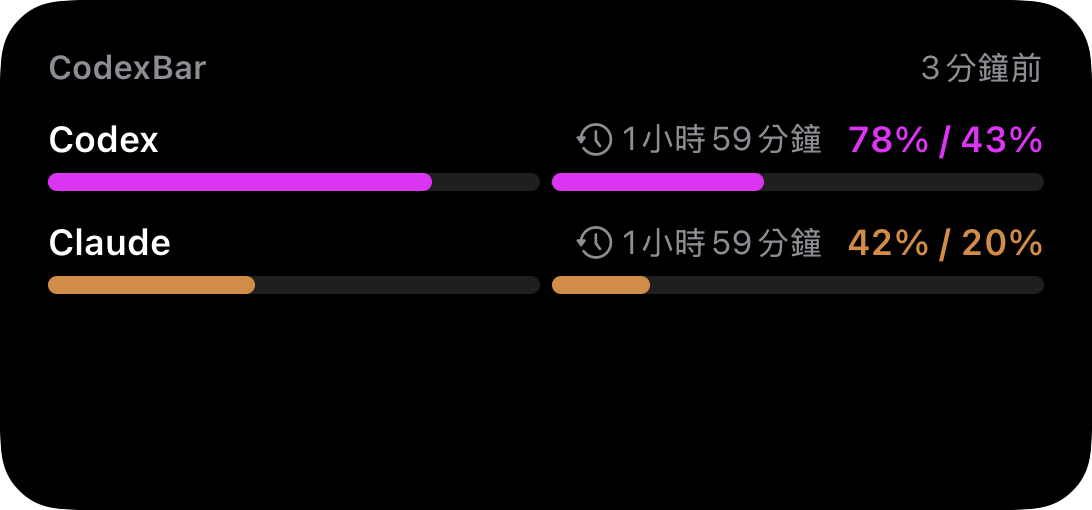
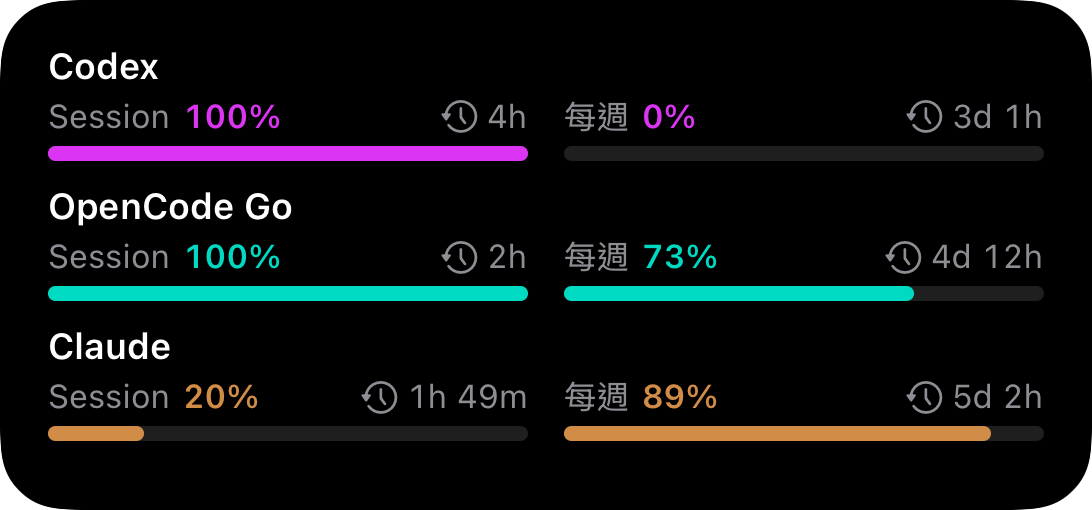
fix(ios): Usage Bars widget follows the remaining setting and reads clearly
User feedback on the first build:
- Values now follow the app's Show remaining usage setting. The app
  mirrors it (including the legacy display-mode key) into a new App Group,
  group.com.ian902792.codexbar.mobile, on launch and on toggle, and reloads
  widget timelines; the widget reads it per entry.
- Windows keep their synced order, so the small widget leads with Session
  and lists Weekly below instead of promoting the fullest window.
- Reset countdowns use compact English units (3d 1h, 1h 49m, 12m) so the
  zh-Hant relative text no longer truncates; the timeline carries one entry
  per minute until the next 15-minute fetch.
- Medium rows give each bar its own label, value and right-aligned
  countdown instead of an unlabeled "80% / 11%".

diff --git a/CodexBarMobile/CodexBarMobileWidgets/UsageBarsWidget.swift b/CodexBarMobile/CodexBarMobileWidgets/UsageBarsWidget.swift
@@ -65,12 +65,17 @@ struct UsageBarsConfigurationIntent: WidgetConfigurationIntent {
 struct UsageBarsEntry: TimelineEntry {
     let date: Date
     let providerID: String?
+    let showRemaining: Bool
     let snapshot: CodexBarWidgetSnapshot
 }
 
 struct UsageBarsTimelineProvider: AppIntentTimelineProvider {
     func placeholder(in _: Context) -> UsageBarsEntry {
-        UsageBarsEntry(date: .now, providerID: nil, snapshot: .placeholder())
+        UsageBarsEntry(
+            date: .now,
+            providerID: nil,
+            showRemaining: WidgetDisplayPreferences.showRemainingUsage,
+            snapshot: .placeholder())
     }
 
     func snapshot(for configuration: UsageBarsConfigurationIntent, in context: Context) async -> UsageBarsEntry {
@@ -82,7 +87,15 @@ struct UsageBarsTimelineProvider: AppIntentTimelineProvider {
 
     func timeline(for configuration: UsageBarsConfigurationIntent, in _: Context) async -> Timeline<UsageBarsEntry> {
         let entry = await self.entry(for: configuration)
-        return Timeline(entries: [entry], policy: .after(entry.date.addingTimeInterval(15 * 60)))
+        // One entry per minute keeps the abbreviated countdowns current until the next fetch.
+        let entries = (0..<15).map { minute in
+            UsageBarsEntry(
+                date: entry.date.addingTimeInterval(Double(minute) * 60),
+                providerID: entry.providerID,
+                showRemaining: entry.showRemaining,
+                snapshot: entry.snapshot)
+        }
+        return Timeline(entries: entries, policy: .after(entry.date.addingTimeInterval(15 * 60)))
     }
 
     private func entry(for configuration: UsageBarsConfigurationIntent) async -> UsageBarsEntry {
@@ -90,6 +103,7 @@ struct UsageBarsTimelineProvider: AppIntentTimelineProvider {
         return UsageBarsEntry(
             date: now,
             providerID: configuration.provider?.id,
+            showRemaining: WidgetDisplayPreferences.showRemainingUsage,
             snapshot: await CodexBarWidgetProvider.fetchSnapshot(now: now))
     }
 }
@@ -128,12 +142,12 @@ struct UsageBarsWidgetView: View {
         .containerBackground(for: .widget) { Color.black }
     }
 
+    /// Windows keep their synced order (Session first, then Weekly, …).
     private func small(_ provider: CodexBarWidgetProviderSummary) -> some View {
         let tint = self.tint(provider)
         let windows = provider.windows ?? []
         // `providers` only keeps summaries with at least one window.
-        let headline = windows.max { $0.usedPercent < $1.usedPercent }!
-        let others = windows.filter { $0 != headline }
+        let headline = windows[0]
         return VStack(alignment: .leading, spacing: 4) {
             HStack {
                 Text(provider.providerName).font(.caption.bold()).lineLimit(1)
@@ -143,68 +157,63 @@ struct UsageBarsWidgetView: View {
             HStack(alignment: .firstTextBaseline) {
                 Text(headline.label).font(.caption).foregroundStyle(.secondary).lineLimit(1)
                 Spacer(minLength: 4)
-                Text(Self.percent(headline.usedPercent))
+                Text(Self.percent(self.shown(headline)))
                     .font(.system(size: 26, weight: .bold, design: .rounded))
                     .foregroundStyle(tint)
                     .minimumScaleFactor(0.7)
             }
-            Self.bar(headline.usedPercent, tint: tint, height: 6)
+            Self.bar(self.shown(headline), tint: tint, height: 6)
             HStack {
-                Text("\(String(localized: "Remaining")) \(Self.percent(100 - headline.usedPercent))")
+                // The complement of the headline number: used when showing remaining, and vice versa.
+                Text(
+                    (self.entry.showRemaining ? String(localized: "Used") : String(localized: "Remaining"))
+                        + " " + Self.percent(100 - self.shown(headline)))
                 Spacer(minLength: 4)
-                if let resetsAt = headline.resetsAt {
-                    Self.reset(resetsAt)
-                }
+                self.countdown(headline.resetsAt)
             }
             .font(.caption2).foregroundStyle(.secondary).lineLimit(1)
             Spacer(minLength: 0)
-            ForEach(Array(others.prefix(2).enumerated()), id: \.offset) { _, window in
-                VStack(spacing: 3) {
-                    HStack {
-                        Text(window.label).foregroundStyle(.secondary).lineLimit(1)
-                        Spacer(minLength: 4)
-                        Text(Self.percent(window.usedPercent)).bold().foregroundStyle(tint)
-                    }
-                    .font(.caption2)
-                    Self.bar(window.usedPercent, tint: tint, height: 4)
-                }
+            ForEach(Array(windows.dropFirst().prefix(2).enumerated()), id: \.offset) { _, window in
+                self.windowColumn(window, tint: tint, barHeight: 4)
             }
         }
     }
 
+    /// One row per provider; each window gets its own label, value, countdown and bar.
     private func medium(_ providers: [CodexBarWidgetProviderSummary]) -> some View {
-        VStack(alignment: .leading, spacing: 10) {
-            HStack {
-                Text("CodexBar").font(.caption2.bold()).foregroundStyle(.secondary)
-                Spacer()
-                if let latestSyncAt = self.entry.snapshot.latestSyncAt {
-                    Self.updated(latestSyncAt)
-                }
-            }
+        VStack(alignment: .leading, spacing: 8) {
             ForEach(providers) { provider in
                 let tint = self.tint(provider)
                 let windows = Array((provider.windows ?? []).prefix(2))
-                let headline = windows.max { $0.usedPercent < $1.usedPercent }
-                VStack(alignment: .leading, spacing: 4) {
-                    HStack {
-                        Text(provider.providerName).font(.caption.bold()).lineLimit(1)
-                        Spacer(minLength: 4)
-                        if let resetsAt = headline?.resetsAt {
-                            Self.reset(resetsAt).font(.caption2).foregroundStyle(.secondary).lineLimit(1)
-                        }
-                        Text(windows.map { Self.percent($0.usedPercent) }.joined(separator: " / "))
-                            .font(.caption.bold().monospacedDigit())
-                            .foregroundStyle(tint)
-                    }
-                    HStack(spacing: 4) {
+                VStack(alignment: .leading, spacing: 3) {
+                    Text(provider.providerName).font(.caption.bold()).lineLimit(1)
+                    HStack(spacing: 12) {
                         ForEach(Array(windows.enumerated()), id: \.offset) { _, window in
-                            Self.bar(window.usedPercent, tint: tint, height: 6)
+                            self.windowColumn(window, tint: tint, barHeight: 5)
+                        }
+                        if windows.count == 1 {
+                            Color.clear.frame(maxWidth: .infinity, maxHeight: 0)
                         }
                     }
                 }
             }
             Spacer(minLength: 0)
         }
+    }
+
+    private func windowColumn(_ window: CodexBarWidgetUsageWindow, tint: Color, barHeight: CGFloat) -> some View {
+        VStack(spacing: 3) {
+            HStack(spacing: 4) {
+                Text(window.label).foregroundStyle(.secondary).lineLimit(1)
+                Text(Self.percent(self.shown(window))).bold().monospacedDigit().foregroundStyle(tint)
+                Spacer(minLength: 2)
+                self.countdown(window.resetsAt).foregroundStyle(.secondary)
+            }
+            .font(.caption2)
+            .lineLimit(1)
+            Self.bar(self.shown(window), tint: tint, height: barHeight)
+        }
+        .frame(maxWidth: .infinity)
     }
 
     private var empty: some View {
@@ -216,8 +225,23 @@ struct UsageBarsWidgetView: View {
         }
     }
 
+    /// The percentage the app shows for this window: remaining or used, per the app setting.
+    private func shown(_ window: CodexBarWidgetUsageWindow) -> Double {
+        self.entry.showRemaining ? 100 - window.usedPercent : window.usedPercent
+    }
+
     private func tint(_ provider: CodexBarWidgetProviderSummary) -> Color {
         ProviderColorPalette.color(providerID: provider.providerID, tintHex: provider.tintHex)
+    }
+
+    @ViewBuilder
+    private func countdown(_ resetsAt: Date?) -> some View {
+        if let resetsAt, let text = CodexBarWidgetUsageWindow.countdownText(until: resetsAt, now: self.entry.date) {
+            HStack(spacing: 2) {
+                Image(systemName: "clock.arrow.circlepath")
+                Text(text).monospacedDigit()
+            }
+        }
     }
 
     /// Static "5 分鐘前"; `.relative` would tick every second.
@@ -241,16 +265,5 @@ struct UsageBarsWidgetView: View {
             }
         }
         .frame(height: height)
-    }
-
-    @ViewBuilder
-    private static func reset(_ date: Date) -> some View {
-        // A past reset would count up; hide it until the next sync.
-        if date > .now {
-            HStack(spacing: 2) {
-                Image(systemName: "clock.arrow.circlepath")
-                Text(date, style: .relative)
-            }
-        }
     }
 }

diff --git a/CodexBarMobile/CodexBarMobile/ContentView.swift b/CodexBarMobile/CodexBarMobile/ContentView.swift
@@ -4324,7 +4324,7 @@ private enum MobileReleaseNotesCatalog {
                 String(
                     localized: "Create polished share cards with a preview-first editor, refreshed Classic and Vibe designs, and a Token Activity heatmap for all providers or one provider."),
                 String(
-                    localized: "Add the new Usage Bars widget to see each limit's bar and reset countdown at a glance, on a dark card in your provider's color."),
+                    localized: "Add the new Usage Bars widget to see each limit's bar and reset countdown at a glance, on a dark card in your provider's color. It follows your Show remaining usage setting."),
                 String(
                     localized: "Low-contrast provider colors, like Grok's, are now easy to read in Dark Mode, and the app has a new pixel-art icon."),
             ])]),
@@ -5223,6 +5223,7 @@ private struct UsageSettingsView: View {
                     .font(.body)
                     .fontWeight(.medium)
                     .accessibilityIdentifier("show-remaining-usage-toggle")
+                    .onChange(of: self.showRemainingUsage) { WidgetDisplayPreferences.mirrorAppSettings() }
             } header: {
                 Text("Usage")
             } footer: {

diff --git a/CodexBarMobile/CodexBarMobile/Models/MobileDisplayPreferences.swift b/CodexBarMobile/CodexBarMobile/Models/MobileDisplayPreferences.swift
@@ -1,5 +1,6 @@
 import CodexBarSync
 import Foundation
+import WidgetKit
 
 enum MobileSettingsKeys {
     static let usageCostChartStyle = "usageCostChartStyle"
@@ -83,5 +84,18 @@ enum UsagePercentDisplayMode: String, CaseIterable, Identifiable {
 
     func percentageText(for window: SyncRateWindow) -> String {
         "\(self.percentageValueText(for: window)) \(self.percentSuffix)"
+    }
+}
+
+extension WidgetDisplayPreferences {
+    /// Mirrors the app's "Show remaining usage" setting (including the legacy
+    /// display-mode key) into the App Group and reloads widgets when it changed.
+    static func mirrorAppSettings(from defaults: UserDefaults = .standard) {
+        let showRemaining = defaults.object(forKey: MobileSettingsKeys.showRemainingUsage) as? Bool
+            ?? (defaults.string(forKey: MobileSettingsKeys.usagePercentDisplayMode)
+                == UsagePercentDisplayMode.remaining.rawValue)
+        guard showRemaining != self.showRemainingUsage else { return }
+        self.showRemainingUsage = showRemaining
+        WidgetCenter.shared.reloadAllTimelines()
     }
 }

diff --git a/CodexBarMobile/CodexBarWidgetShared/CodexBarWidgetSnapshot.swift b/CodexBarMobile/CodexBarWidgetShared/CodexBarWidgetSnapshot.swift
@@ -14,6 +14,18 @@ struct CodexBarWidgetUsageWindow: Codable, Equatable, Sendable {
     let label: String
     let usedPercent: Double
     let resetsAt: Date?
+
+    /// Compact English countdown ("3d 1h", "1h 49m", "12m") that fits narrow widgets in any
+    /// language. Nil once the reset has passed, so a stale value never counts up.
+    static func countdownText(until date: Date, now: Date) -> String? {
+        let seconds = date.timeIntervalSince(now)
+        guard seconds > 0 else { return nil }
+        let minutes = Int((seconds / 60).rounded(.up))
+        let days = minutes / 1440, hours = minutes % 1440 / 60, mins = minutes % 60
+        if days > 0 { return hours > 0 ? "\(days)d \(hours)h" : "\(days)d" }
+        if hours > 0 { return mins > 0 ? "\(hours)h \(mins)m" : "\(hours)h" }
+        return "\(mins)m"
+    }
 }
 
 struct CodexBarWidgetProviderSummary: Codable, Equatable, Identifiable, Sendable {

diff --git a/CodexBarMobile/CodexBarMobileTests/WidgetSnapshotBuilderTests.swift b/CodexBarMobile/CodexBarMobileTests/WidgetSnapshotBuilderTests.swift
@@ -127,6 +127,22 @@ struct WidgetSnapshotBuilderTests {
     }
 
     @Test
+    func `usage window countdowns use compact English units`() {
+        let now = Self.date("2026-06-28T12:00:00Z")
+        func text(_ seconds: TimeInterval) -> String? {
+            CodexBarWidgetUsageWindow.countdownText(until: now.addingTimeInterval(seconds), now: now)
+        }
+        #expect(text(3 * 86400 + 3600 + 30) == "3d 1h")
+        #expect(text(2 * 86400) == "2d")
+        #expect(text(3600 + 49 * 60) == "1h 49m")
+        #expect(text(2 * 3600) == "2h")
+        #expect(text(12 * 60 - 5) == "12m")
+        #expect(text(1) == "1m")
+        #expect(text(0) == nil)
+        #expect(text(-60) == nil)
+    }
+
+    @Test
     func `sums local-cost provider accounts across devices`() {
         let now = Self.date("2026-06-28T12:00:00Z")
         let older = Self.provider(

diff --git a/CodexBarMobile/CodexBarWidgetShared/WidgetDisplayPreferences.swift b/CodexBarMobile/CodexBarWidgetShared/WidgetDisplayPreferences.swift
@@ -1,0 +1,17 @@
+import Foundation
+
+/// Display preferences the app mirrors into the shared App Group so the
+/// widget extension (a separate process) renders the same way.
+enum WidgetDisplayPreferences {
+    static let appGroupID = "group.com.ian902792.codexbar.mobile"
+    private static let showRemainingUsageKey = "showRemainingUsage"
+
+    private static var defaults: UserDefaults? {
+        UserDefaults(suiteName: self.appGroupID)
+    }
+
+    static var showRemainingUsage: Bool {
+        get { self.defaults?.bool(forKey: self.showRemainingUsageKey) ?? false }
+        set { self.defaults?.set(newValue, forKey: self.showRemainingUsageKey) }
+    }
+}

diff --git a/CodexBarMobile/CodexBarMobile/CodexBarMobileApp.swift b/CodexBarMobile/CodexBarMobile/CodexBarMobileApp.swift
@@ -28,6 +28,7 @@ struct CodexBarMobileApp: App {
         if arguments.contains("UI_TEST_SKIP_ONBOARDING") {
             UserDefaults.standard.set(currentVersion, forKey: "onboardingSeenVersion")
         }
+        WidgetDisplayPreferences.mirrorAppSettings()
 
         if arguments.contains("UI_TEST_PREVIEW_DATA") {
             _usageData = State(initialValue: PreviewData.makeSyncedUsageData())

diff --git a/CodexBarMobile/CHANGELOG.md b/CodexBarMobile/CHANGELOG.md
@@ -5,7 +5,7 @@ All notable changes to the CodexBar iOS companion app will be documented in this
 ## [2.0.0 (211)] — Unreleased
 
 ### Added
-- Usage Bars widget (small/medium): per-rate-window bars, used/remaining percent and reset countdown in the provider tint on an always-dark card; optional provider picker (`AppEntity`), defaults to the highest usage. Widget summaries now carry localized windows and the synced icon tint; the 6-provider cap on widget summaries is removed (layouts already limit their rows). `ProviderColorPalette`/`ProviderWindowLabel` moved to `CodexBarWidgetShared/`.
+- Usage Bars widget (small/medium): per-rate-window bars, used/remaining percent and reset countdown in the provider tint on an always-dark card; optional provider picker (`AppEntity`), defaults to the highest usage. Windows keep their synced order (Session above Weekly); values follow the app's Show remaining usage setting via the `group.com.ian902792.codexbar.mobile` App Group; reset countdowns use compact English units (`3d 1h`, `1h 49m`) refreshed by per-minute timeline entries; the medium layout labels each bar with its own window, value and countdown. Widget summaries now carry localized windows and the synced icon tint; the 6-provider cap on widget summaries is removed (layouts already limit their rows). `ProviderColorPalette`/`ProviderWindowLabel` moved to `CodexBarWidgetShared/`.
 - Content-sized adaptive layouts: two-column Usage cards in roomy portrait windows, Usage/Settings list-detail in roomy landscape with bottom tabs retained on every shipping iPhone/iPad orientation, paired Cost summary/charts, and wider provider heatmap grids. Trailing navigation is confined to illustrative Duo previews; Duo-specific SDK/hinge behavior is not yet verified.
 
 - Shared yearly Token Activity heatmaps in provider details, with provider colors and explicit unavailable states; a combined daily-token heatmap on Cost opens all provider heatmaps, fully expanded with full-width charts and larger headings. Positive-day quartile colors distinguish high usage without clipping at 10M; compact cells expose more months and support day selection by tap or long press.

diff --git a/CodexBarMobile/Research/056-usage-bars-widget.md b/CodexBarMobile/Research/056-usage-bars-widget.md
@@ -59,6 +59,13 @@ used percentage, and a live "resets in" countdown. The existing
 - Reset countdown uses `Text(date, style: .relative)`, which ticks without
   extra timeline entries.
 
+### Revision (user feedback, 2026-09-23)
+
+- Windows keep their synced order; the small widget's headline is the first window (Session), not the fullest one.
+- Values follow the app's "Show remaining usage" setting. The app mirrors it into the new App Group `group.com.ian902792.codexbar.mobile` on launch and on toggle, then reloads widget timelines.
+- Countdowns use compact English units (`3d 1h`, `1h 49m`, `12m`) so Chinese relative text is no longer truncated; the timeline carries one entry per minute until the next fetch.
+- Medium: each bar has its own label, value and right-aligned countdown instead of a combined `80% / 11%`.
+
 ### Out of scope
 
 Lock-screen accessory families, large/extra-large layouts, per-window
